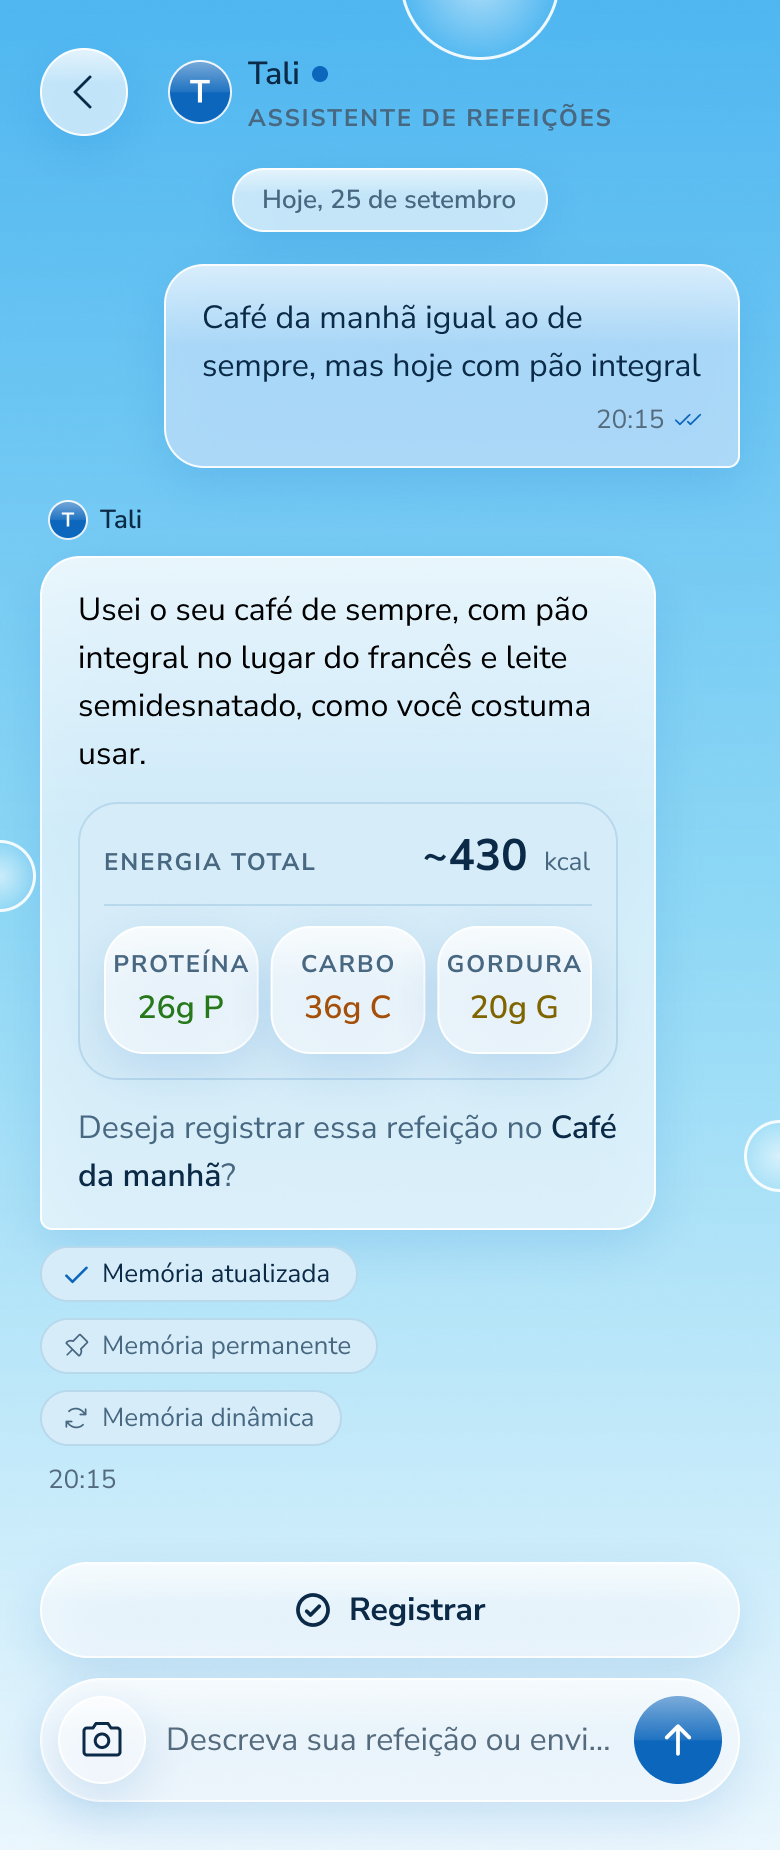
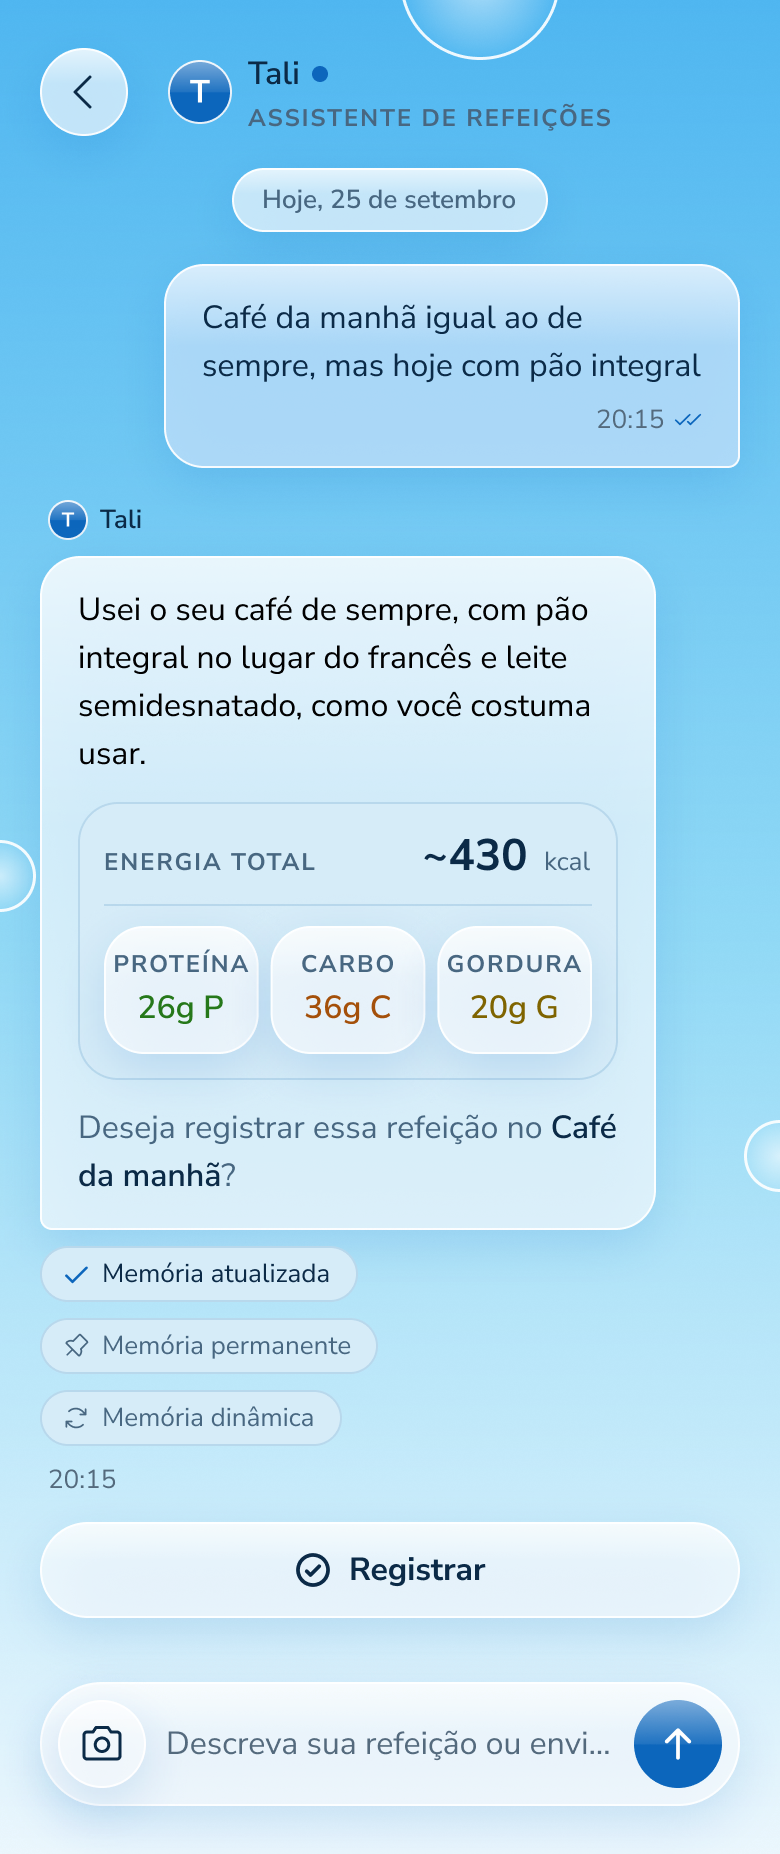
docs(design): D22 owner OK, chatM gold exported, plan closed; plan A62
chatM (both themes) exported at 780x1854 with Registrar in the thread;
chatT kept its bytes (no visible change). The A61 render scores 0.44 % Dark
and 1.51 % Light on the whole frame. A62 (awaiting approval) moves the
GoldTest gate and the emulator capture.

diff --git a/docs/android/plans/a62-chatm-gold-gate.md b/docs/android/plans/a62-chatm-gold-gate.md
@@ -1,0 +1,44 @@
+# Plan — A62 `chatM` gated whole
+
+- Status: Aguardando aprovação
+- Date: 07/10/2026
+- Owning context: `android`
+- Executable boundary: `apps/android/app/src/test/` (`GoldTest`) and the capture `docs/qa/android/current/{dark,light}/chatM.png`. No production code, no server, no Room. `tools/capture-chat.sh` and `tools/diff-gold.mjs` only if the capture shows a rule that no longer fits.
+- Related documentation: [ADR-048](../../produto/adrs/ADR-048-chat-actions-in-thread-copy-scroll-capture.md), [product Chat](../../produto/specifications/chat.md), [QA](../../qa/README.md).
+- Prerequisites:
+  - [D22](../../design/plans/completed/d22-chatm-action-in-thread.md) `Concluído`: the `chatM` gold draws Registrar in the thread (780 × 1854, 927 dp);
+  - [A61](pending_manual_validation/a61-chat-copy-scroll-capture-inline-actions.md) merged (it is); no parallel Android plan.
+
+Authorization and delivery follow [SDD](../../sdd/README.md). Approval: `Aprovo o plano docs/android/plans/a62-chatm-gold-gate.md. Implemente o plano aprovado.`
+
+## Objective
+
+Since A61, `chatM` was checked only on the header and the thread, and its action zone was only reported. The gold was stale: it drew Registrar above the composer. D22 redrew it with Registrar in the thread. This plan removes that exception, so `chatM` is gated as a whole frame like the other Chat golds, and refreshes its emulator capture.
+
+## Scope
+
+1. **`GoldTest`:**
+   - `chatM_dark` and `chatM_light` drop `reportOnly`, `CHAT_M_BOXES` and `CHAT_M_ACTION`, and the comment about D20;
+   - the qualifier follows the new frame height, `h925dp` → `h927dp`;
+   - the gate is the default one: a blurred diff of the whole frame ≤ 2 %. After the D22 export the render measured Dark 0.44 % and Light 1.51 %.
+2. **Emulator** (partial validation, `chatM` only, both themes):
+   - capture through the existing scene: `node tools/fake-chat-server.mjs`, the devDebug APK with `-PAPI_PUBLIC_URL=http://10.0.2.2:8765`, then `SCENES=v2 tools/capture-chat.sh dark|light`;
+   - `node tools/diff-gold.mjs` keeps the long-thread rules of `chatM` (header box and tail);
+   - write a diff list with the remaining differences.
+
+## Out of scope
+
+- Any Compose change: A61 already draws the frame.
+- Other golds, and the Light `text/dim` contrast ([D21](../../design/plans/d21-light-text-dim-contrast.md)).
+- A dev build: the APK does not change.
+
+## Validation
+
+1. `testDevDebugUnitTest` passes, with `GoldTest.chatM_*` gated (not report-only). Run it with `--rerun`, because the gold PNG is not a Gradle input.
+2. `verifyRoborazziDevDebug` passes.
+3. The `chatM` emulator captures exist in both themes, and `tools/diff-gold.mjs` passes on them.
+4. `node tools/check-docs.mjs` passes.
+
+## Results
+
+Planning only.

diff --git a/docs/design/plans/completed/d22-chatm-action-in-thread.md b/docs/design/plans/completed/d22-chatm-action-in-thread.md
@@ -1,6 +1,6 @@
 # Plan — D22 Chat: `chatM` with Registrar in the thread
 
-- Status: Pendente aprovação manual (owner review in Figma, 07/10/2026)
+- Status: Concluído (07/10/2026)
 - Date: 07/10/2026
 - Owning context: `design`
 - Affected code: none in `apps/` or `server/`. Figma `Design` → `Release 1` → section "Chat · D6", frames `chatM` Light (`72:3034`) and Dark (`72:3333`) only; no new component. Repository: `docs/qa/figma/{dark,light}/chatM.png`; `tools/export-figma.mjs` only if a node id changes.
@@ -107,8 +107,29 @@ Registrar sits 12 px under the time line in all four frames and keeps its 350 ×
    - `chatM` is 780 × 1854 in both themes. Registrar sits under the answer and the composer stays alone, as in the `GoldTest` render of the A61 code.
    - `chatT` shows no pixel above the noise threshold against the current gold in either theme: the change is hidden by the sheet. The export noise filter will keep its bytes; only the Figma structure changes.
 
-Figma MCP budget: 5 of 12 calls (whoami, 2 skill reads, 1 read, 1 write) at the first review.
+Figma MCP budget: 5 of 12 calls (whoami, 2 skill reads, 1 read, 1 write).
 
 ### Owner review
 
-Pending: visual OK in Figma for `chatM` (Light `72:3034`, Dark `72:3333`). `chatT` has no visible change.
+**OK (07/10/2026).** The owner approved the frames in Figma ("Aprovado no Figma") on the first round, with no fixes.
+
+### Export (07/10/2026)
+
+- `node tools/export-figma.mjs --only chatM,chatT`:
+  - `chatM` is 780 × 1850 → 780 × 1854 in both themes, with fresh bytes kept;
+  - `chatT` changed 0.000 % of its pixels in both themes, so the noise filter restored its bytes from git. Only the Figma structure changed.
+  - No node id changed in `tools/export-figma.mjs`.
+- `node tools/check-figma.mjs`: 100 golds verified (50 dark + 50 light).
+- `tools/diff-gold.mjs`: no change. `chatM` keeps its long-thread rules (`HEADER_BOX`, tail 0). It never had a rule for the pinned slot.
+- Gold check (the A61 code against the new gold; `GoldTest`, run with `--rerun` because the gold PNG is not a Gradle input):
+
+  | Measure | Dark | Light |
+  |---|---|---|
+  | Blurred diff of the whole frame | 0.44 % | 1.51 % |
+  | Header and thread region | 0.04 % | 0.11 % |
+  | Old action zone | 0.00 % | 0.00 % |
+
+  `chatT` scores 0.00 % in both themes.
+- **Hand-over:** [A62](../../../android/plans/a62-chatm-gold-gate.md) removes the `GoldTest` exception (`CHAT_M_BOXES`, `CHAT_M_ACTION`, `reportOnly`), moves the qualifier to 927 dp and adds the emulator capture of `chatM`.
+
+Figma MCP budget: 5 of 12 calls in total.

diff --git a/docs/android/plans/pending_manual_validation/a61-chat-copy-scroll-capture-inline-actions.md b/docs/android/plans/pending_manual_validation/a61-chat-copy-scroll-capture-inline-actions.md
@@ -108,7 +108,7 @@ Implemented 07/10/2026 on `feat/a61-chat-copy-scroll-inline`, parts C → A → 
   - `chatRK` is gated by two regions (0.23–0.30 %): the app fits "finalize" on one line where the Figma text wraps it (font raster), so the rest of the bubble shifts down one line;
   - `cfgS` 0.00 %, so the report-only exception is gone;
   - O1–O4 0.00–0.10 %.
-- **`chatM` gold out of date:** it was not in D20 and still draws Registrar above the composer. It is gated on the header and the thread, and the action zone is reported. To be redrawn by the design plan [D22](../../../design/plans/pending_manual_validation/d22-chatm-action-in-thread.md), by owner decision.
+- **`chatM` gold out of date:** it was not in D20 and still draws Registrar above the composer. It is gated on the header and the thread, and the action zone is reported. Redrawn by the design plan [D22](../../../design/plans/completed/d22-chatm-action-in-thread.md) (owner decision); the gate moves in [A62](../a62-chatm-gold-gate.md).
 - **Roborazzi:** baselines refreshed (the old Chat baselines still showed "Chat Dieta Bot", passing only under the 1 % threshold). New baselines: `chatRB`, `chatRK`, `chatRL`, `chatCP`, `chatCC`.
 - **`ChatInThreadUiTest`:**
   - the stack sits 12 dp under the answer, Reservar 10 dp under Registrar assim;

diff --git a/docs/android/README.md b/docs/android/README.md
@@ -119,6 +119,7 @@ Histórico em `docs/decisions/`: [002](../decisions/002-android-client.md), [004
 - [A59 — Skips next to other actions in the Chat](plans/pending_manual_validation/a59-skips-with-other-actions.md): part E of A60, restored from `cancelled/` by owner decision (07/10/2026).
 - [A60 — Budget choice, tone and closures, rich replies, planned meal and skips](plans/pending_manual_validation/a60-tone-formatting-planned-skips.md): parts A–D delivered, awaiting the owner's device acceptance.
 - [A61 — Chat actions in the thread, copying messages, scrolling screenshot](plans/pending_manual_validation/a61-chat-copy-scroll-capture-inline-actions.md): parts A–C delivered, awaiting the owner's device acceptance.
+- [A62 — `chatM` gated whole](plans/a62-chatm-gold-gate.md): after D22; awaiting approval.
 - Cancelados (decisão do dono, 07/10/2026, um plano por contexto): A50, A55, A57, A58 em [`plans/cancelled/`](plans/cancelled/).
 - Fora de escopo: [A35 Registro retroativo](plans/out_of_scope/a35-registro-retroativo.md), [A56 Goal weight and date in the profile](plans/out_of_scope/a56-goal-weight.md).
 - Histórico: [`plans/completed/`](plans/completed/).

diff --git a/docs/design/plans/README.md b/docs/design/plans/README.md
@@ -118,8 +118,8 @@ Behavior: [ADR-048](../../produto/adrs/ADR-048-chat-actions-in-thread-copy-scrol
 |---|---|---|
 | Design | D20 — stale frames, Chat actions in the thread, copying messages (`chatCP`, `chatCC`), delivered ([history](completed/)) | D12, D16–D19, A60 merged |
 | Client | [A61](../../android/plans/pending_manual_validation/a61-chat-copy-scroll-capture-inline-actions.md) — actions in the thread, copying messages, scrolling screenshot | D20 (parts A and B) |
-| Design | [D22](pending_manual_validation/d22-chatm-action-in-thread.md) — `chatM` with Registrar in the thread (missed by D20) | D20, A61 merged |
-| Client | `chatM` gated whole in `GoldTest` and captured on the emulator (written after D22) | D22 |
+| Design | D22 — `chatM` with Registrar in the thread (missed by D20), delivered ([history](completed/)) | D20, A61 merged |
+| Client | [A62](../../android/plans/a62-chatm-gold-gate.md) — `chatM` gated whole in `GoldTest` and captured on the emulator | D22 |
 
 ## Text contrast follow-up
 
